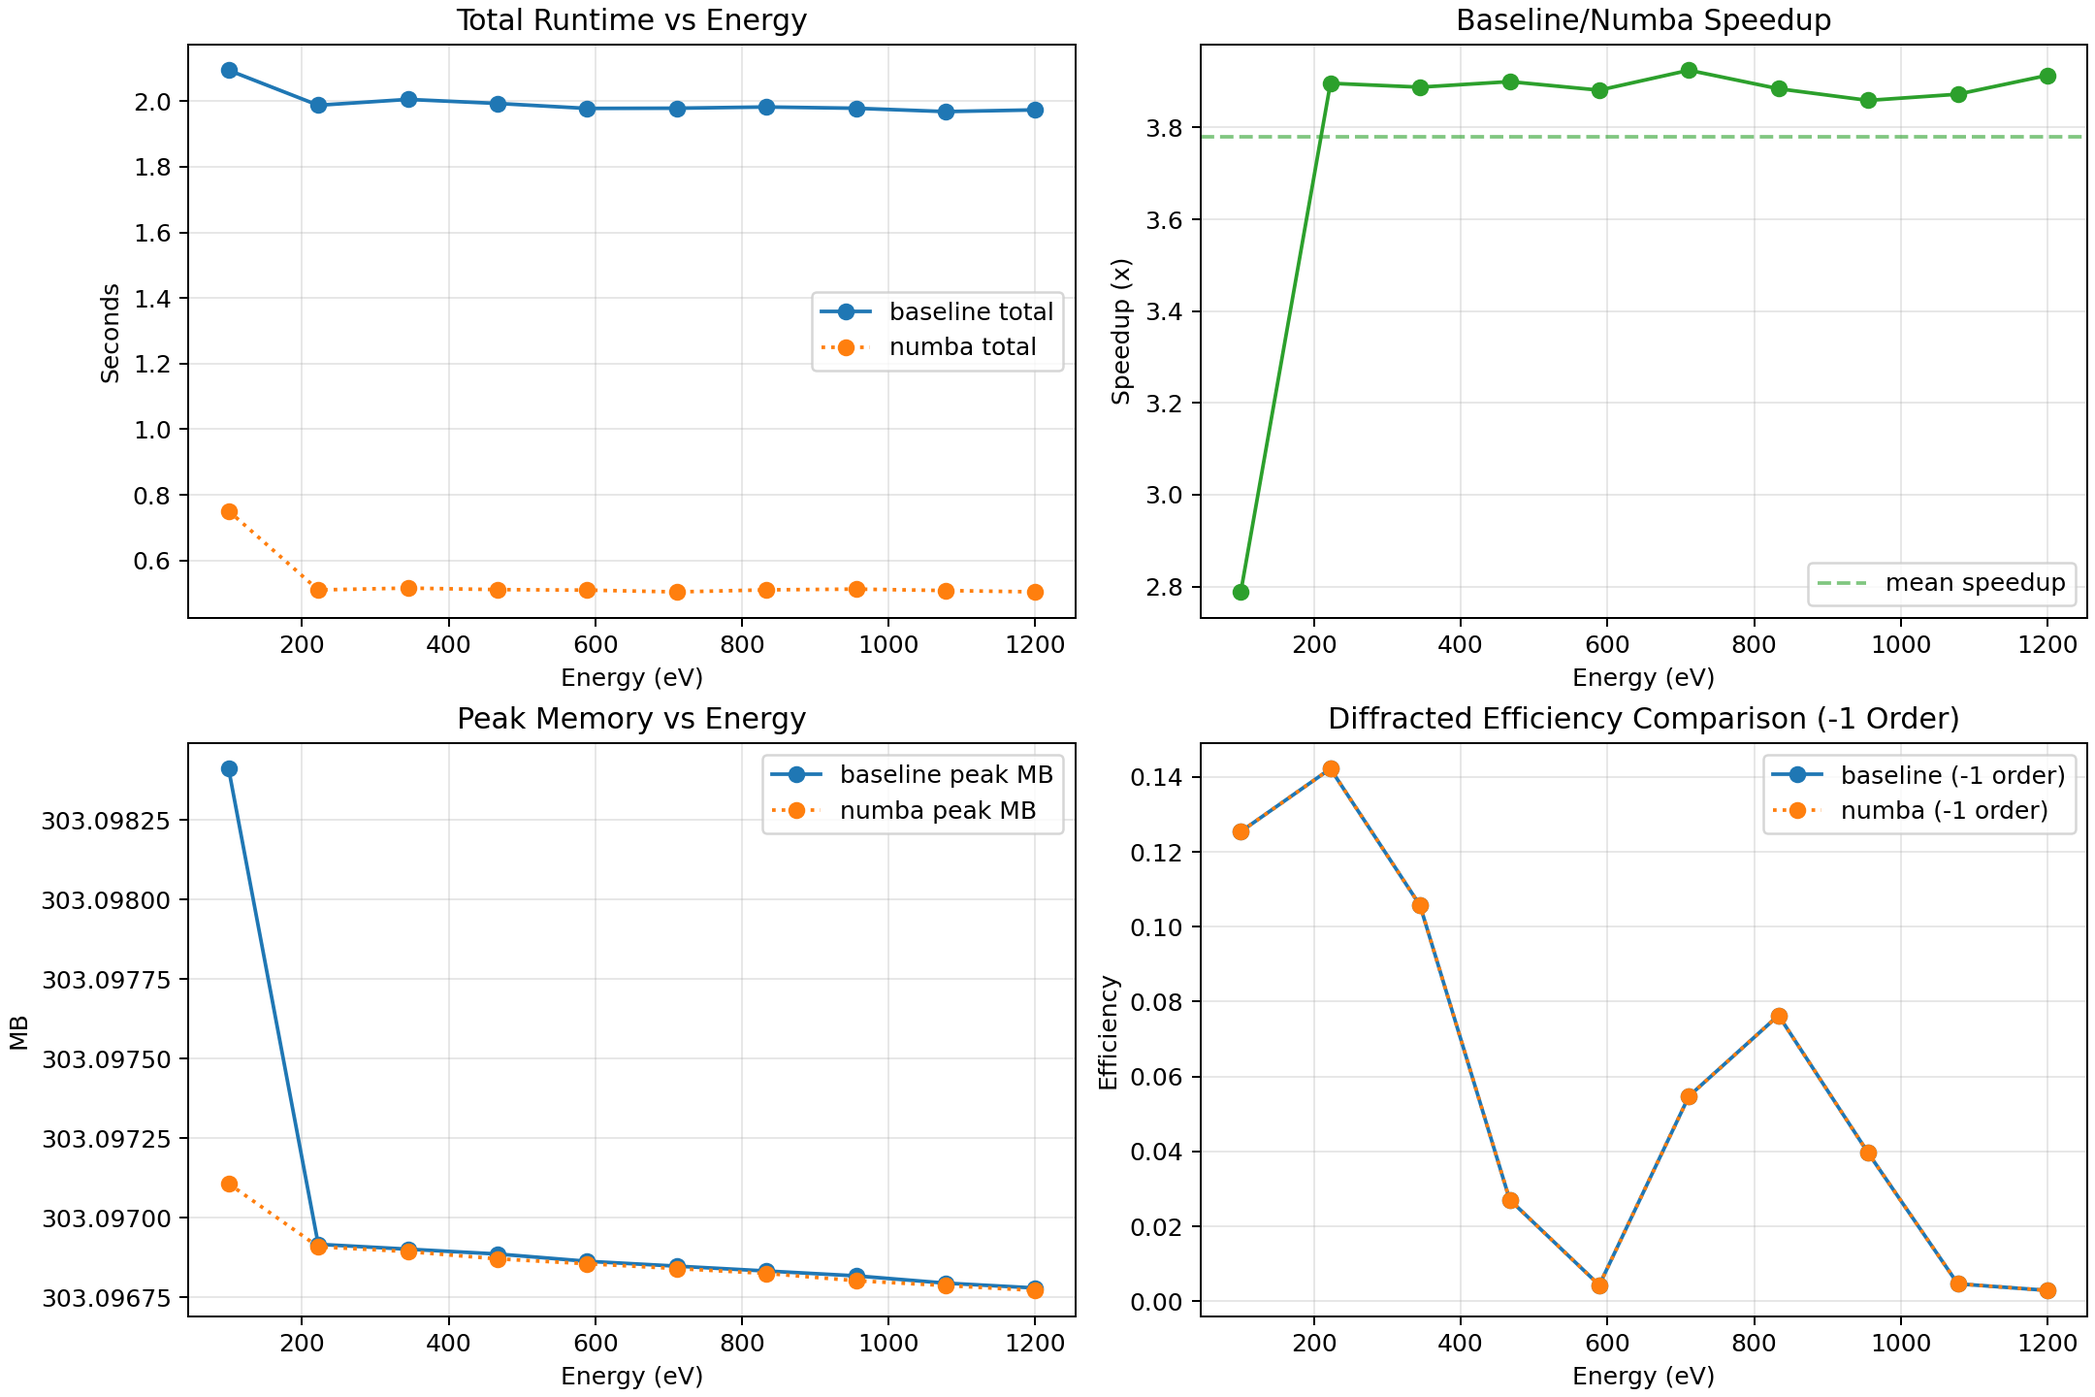
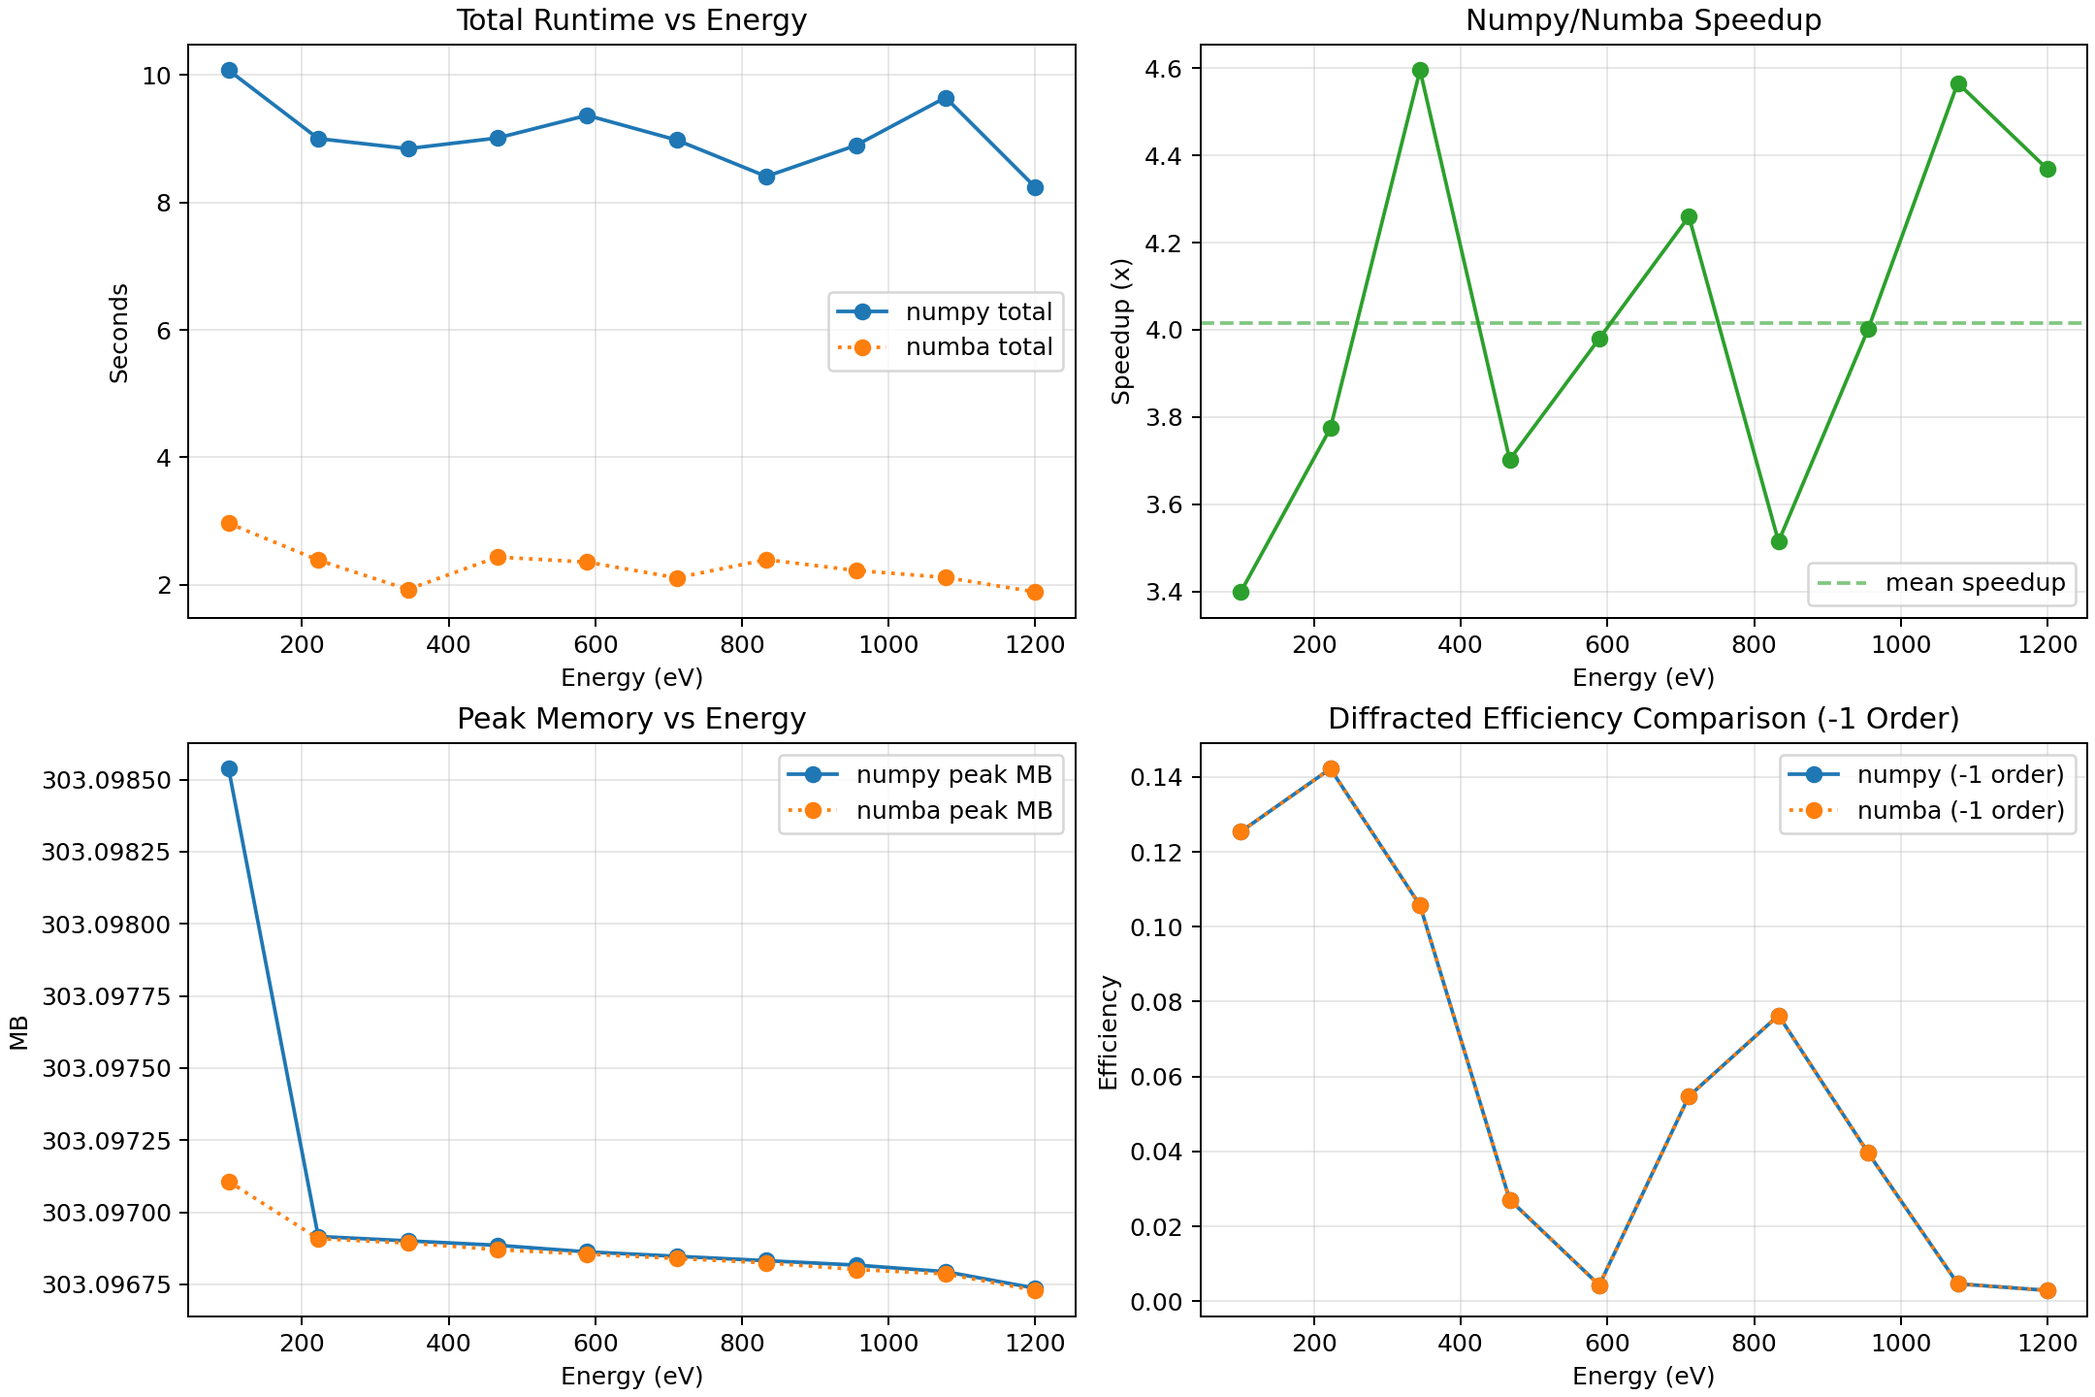
fixes ml and prifler part 1

diff --git a/tools/numba_speed/profile_multi_energy_numba_vs_legacy.py b/tools/numba_speed/profile_multi_energy_numba_vs_legacy.py
@@ -96,12 +96,12 @@ for energy_ev in tqdm(energies, desc="Multi-energy RCWA comparison", unit="energ
 
     numpy_total = float(summary_numpy["total_wall_seconds"])
     numba_total = float(summary_numba["total_wall_seconds"])
-    baseline_fourier = _fourier_stage_seconds(summary_baseline)
+    numpy_fourier = _fourier_stage_seconds(summary_numpy)
     numba_fourier = _fourier_stage_seconds(summary_numba)
-    baseline_peak_mb = float(summary_baseline["peak_memory_bytes"]) / (1024.0 * 1024.0)
+    numpy_peak_mb = float(summary_numpy["peak_memory_bytes"]) / (1024.0 * 1024.0)
     numba_peak_mb = float(summary_numba["peak_memory_bytes"]) / (1024.0 * 1024.0)
-    speedup = baseline_total / numba_total if numba_total > 0.0 else 0.0
-    baseline_eff_m1 = _efficiency_for_exact_order(baseline_result, order=-1)
+    speedup = numpy_total / numba_total if numba_total > 0.0 else 0.0
+    numpy_eff_m1 = _efficiency_for_exact_order(numpy_result, order=-1)
     numba_eff_m1 = _efficiency_for_exact_order(numba_result, order=-1)
 
     rows.append(
@@ -111,14 +111,14 @@ for energy_ev in tqdm(energies, desc="Multi-energy RCWA comparison", unit="energ
             "numba_actual_backend": str(summary_numba["metadata"].get("fourier_backend_actual", "numba")),
             "numpy_total_s": numpy_total,
             "numba_total_s": numba_total,
-            "numpy_fourier_s": _fourier_stage_seconds(summary_numpy),
+            "numpy_fourier_s": numpy_fourier,
             "numba_fourier_s": numba_fourier,
-            "numpy_peak_mb": float(summary_numpy["peak_memory_bytes"]) / (1024.0 * 1024.0),
+            "numpy_peak_mb": numpy_peak_mb,
             "numba_peak_mb": numba_peak_mb,
             "speedup_numpy_over_numba": speedup,
-            "numpy_eff_order_m1": _efficiency_for_exact_order(numpy_result, order=-1),
+            "numpy_eff_order_m1": numpy_eff_m1,
             "numba_eff_order_m1": numba_eff_m1,
-            "eff_delta_order_m1": float(numba_eff_m1 - _efficiency_for_exact_order(numpy_result, order=-1)),
+            "eff_delta_order_m1": float(numba_eff_m1 - numpy_eff_m1),
         }
     )
 
@@ -128,8 +128,8 @@ with csv_path.open("w", encoding="utf-8", newline="") as handle:
     writer.writeheader()
     writer.writerows(rows)
 
-mean_speedup = float(np.mean([float(row["speedup_baseline_over_numba"]) for row in rows]))
-mean_baseline_total = float(np.mean([float(row["baseline_total_s"]) for row in rows]))
+mean_speedup = float(np.mean([float(row["speedup_numpy_over_numba"]) for row in rows]))
+mean_numpy_total = float(np.mean([float(row["numpy_total_s"]) for row in rows]))
 mean_numba_total = float(np.mean([float(row["numba_total_s"]) for row in rows]))
 
 lines = [
@@ -144,8 +144,8 @@ lines = [
     f"z_resolution_nm={z_resolution_nm}",
     "",
     "aggregates",
-    f"- mean_numpy_total_s: {mean_numpy_total_s:.6f}",
-    f"- mean_numba_total_s: {mean_numba_total_s:.6f}",
+    f"- mean_numpy_total_s: {mean_numpy_total:.6f}",
+    f"- mean_numba_total_s: {mean_numba_total:.6f}",
     f"- mean_speedup_numpy_over_numba: {mean_speedup:.6f}",
     "",
     "per_energy",
@@ -155,20 +155,30 @@ lines = [
 for row in rows:
     lines.append(
         f"{row['energy_ev']:>8.3f}  "
-        f"{row['baseline_total_s']:>16.6f}  "
+        f"{row['numpy_total_s']:>16.6f}  "
         f"{row['numba_total_s']:>13.6f}  "
-        f"{row['baseline_fourier_s']:>18.6f}  "
+        f"{row['numpy_fourier_s']:>18.6f}  "
         f"{row['numba_fourier_s']:>15.6f}  "
-        f"{row['speedup_baseline_over_numba']:>7.4f}  "
+        f"{row['speedup_numpy_over_numba']:>7.4f}  "
         f"{row['eff_delta_order_m1']:+.3e}"
     )
+
+def _numba_fourier_available() -> bool:
+    """Return True if the numba backend is available."""
+    try:
+        import numba
+
+        return True
+    except ImportError:
+        return False
+
 
 if not _numba_fourier_available():
     lines.extend(
         [
             "",
             "note",
-            "- numba-optional fell back to baseline because Numba is not installed in this environment.",
+            "- numba-optional fell back to numpy because Numba is not installed in this environment.",
         ]
     )
 

diff --git a/tools/numba_speed/plot_multi_energy_numba_vs_legacy.py b/tools/numba_speed/plot_multi_energy_numba_vs_legacy.py
@@ -9,11 +9,11 @@ import matplotlib.pyplot as plt
 import numpy as np
 
 
-parser = argparse.ArgumentParser(description="Plot multi-energy numba vs legacy comparison")
+parser = argparse.ArgumentParser(description="Plot multi-energy numpy vs numba comparison")
 parser.add_argument(
     "--csv-path",
     type=Path,
-    default=Path(__file__).resolve().parent / "results" / "multi_energy_numba_vs_legacy.csv",
+    default=Path(__file__).resolve().parent / "results" / "multi_energy_numba_vs_numpy.csv",
 )
 parser.add_argument(
     "--output-dir",
@@ -32,18 +32,18 @@ args.output_dir.mkdir(parents=True, exist_ok=True)
 
 data = np.genfromtxt(args.csv_path, delimiter=",", names=True, dtype=None, encoding="utf-8")
 energy_ev = np.asarray(data["energy_ev"], dtype=float)
-baseline_total = np.asarray(data["baseline_total_s"], dtype=float)
+numpy_total = np.asarray(data["numpy_total_s"], dtype=float)
 numba_total = np.asarray(data["numba_total_s"], dtype=float)
-baseline_peak_mb = np.asarray(data["baseline_peak_mb"], dtype=float)
+numpy_peak_mb = np.asarray(data["numpy_peak_mb"], dtype=float)
 numba_peak_mb = np.asarray(data["numba_peak_mb"], dtype=float)
-speedup = np.asarray(data["speedup_baseline_over_numba"], dtype=float)
-baseline_eff_m1 = np.asarray(data["baseline_eff_order_m1"], dtype=float)
+speedup = np.asarray(data["speedup_numpy_over_numba"], dtype=float)
+numpy_eff_m1 = np.asarray(data["numpy_eff_order_m1"], dtype=float)
 numba_eff_m1 = np.asarray(data["numba_eff_order_m1"], dtype=float)
 
 fig, axes = plt.subplots(2, 2, figsize=(12, 8), constrained_layout=True)
 
 ax = axes[0, 0]
-ax.plot(energy_ev, baseline_total, marker="o", linestyle="-", label="baseline total")
+ax.plot(energy_ev, numpy_total, marker="o", linestyle="-", label="numpy total")
 ax.plot(energy_ev, numba_total, marker="o", linestyle=":", label="numba total")
 ax.set_title("Total Runtime vs Energy")
 ax.set_xlabel("Energy (eV)")
@@ -54,14 +54,14 @@ ax.legend()
 ax = axes[0, 1]
 ax.plot(energy_ev, speedup, marker="o", color="tab:green")
 ax.axhline(float(np.mean(speedup)), color="tab:green", linestyle="--", alpha=0.6, label="mean speedup")
-ax.set_title("Baseline/Numba Speedup")
+ax.set_title("Numpy/Numba Speedup")
 ax.set_xlabel("Energy (eV)")
 ax.set_ylabel("Speedup (x)")
 ax.grid(True, alpha=0.3)
 ax.legend()
 
 ax = axes[1, 0]
-ax.plot(energy_ev, baseline_peak_mb, marker="o", linestyle="-", label="baseline peak MB")
+ax.plot(energy_ev, numpy_peak_mb, marker="o", linestyle="-", label="numpy peak MB")
 ax.plot(energy_ev, numba_peak_mb, marker="o", linestyle=":", label="numba peak MB")
 ax.set_title("Peak Memory vs Energy")
 ax.set_xlabel("Energy (eV)")
@@ -70,7 +70,7 @@ ax.grid(True, alpha=0.3)
 ax.legend()
 
 ax = axes[1, 1]
-ax.plot(energy_ev, baseline_eff_m1, marker="o", linestyle="-", label="baseline (-1 order)")
+ax.plot(energy_ev, numpy_eff_m1, marker="o", linestyle="-", label="numpy (-1 order)")
 ax.plot(energy_ev, numba_eff_m1, marker="o", linestyle=":", label="numba (-1 order)")
 ax.set_title("Diffracted Efficiency Comparison (-1 Order)")
 ax.set_xlabel("Energy (eV)")

diff --git a/src/grax/simulation/theta_search.py b/src/grax/simulation/theta_search.py
@@ -141,6 +141,7 @@ def _run_theta_scan(
     max_reflected_efficiency: float,
     min_efficiency: float,
     max_total_reflected_efficiency: float,
+    backend: str,
 ) -> tuple[np.ndarray, list[SingleSimulationResult]]:
     """Run one theta scan and return selected efficiencies plus full results."""
 
@@ -156,6 +157,7 @@ def _run_theta_scan(
             max_reflected_efficiency=max_reflected_efficiency,
             min_efficiency=min_efficiency,
             max_total_reflected_efficiency=max_total_reflected_efficiency,
+            backend=backend,
         )
         for theta_deg in theta_grid_deg
     ]
@@ -293,6 +295,7 @@ def run_multilayer_theta_search(
     min_efficiency: float = -1e-8,
     max_total_reflected_efficiency: float = 1.05,
     precise_peak_selection_mode: PeakSelectionMode = "max",
+    backend: str = "numba",
     diagnostic_callback: Callable[[ThetaSearchDiagnostics, float], None] | None = None,
 ) -> SingleSimulationResult:
     """Run one energy point with an internal rough/precise grazing-angle search.
@@ -324,6 +327,8 @@ def run_multilayer_theta_search(
         precise_peak_selection_mode: Mode used to select the final theta from the
             precise scan. ``max`` uses the sampled maximum, ``gauss`` fits a local
             Gaussian neighborhood, and ``voigt`` fits a local Voigt neighborhood.
+        backend: Fourier coefficient backend selector. Options: ``numpy`` (pure Python,
+            default), ``numba`` (JIT-compiled, requires numba package).
         diagnostic_callback: Optional callback invoked with scan diagnostics after the peak search.
 
     Returns:
@@ -390,6 +395,7 @@ def run_multilayer_theta_search(
             max_reflected_efficiency=max_reflected_efficiency,
             min_efficiency=min_efficiency,
             max_total_reflected_efficiency=max_total_reflected_efficiency,
+            backend=backend,
         )
         rough_peak_index = int(np.nanargmax(rough_efficiencies))
         rough_peak_angle_deg = float(rough_grazing_angles_deg[rough_peak_index])
@@ -444,6 +450,7 @@ def run_multilayer_theta_search(
             max_reflected_efficiency=max_reflected_efficiency,
             min_efficiency=min_efficiency,
             max_total_reflected_efficiency=max_total_reflected_efficiency,
+            backend=backend,
         )
         precise_peak_index = int(np.nanargmax(precise_efficiencies))
         precise_ok, precise_status = _peak_capture_status(precise_efficiencies, precise_peak_index, edge_margin=2)
@@ -491,6 +498,7 @@ def run_multilayer_theta_search(
         max_reflected_efficiency=max_reflected_efficiency,
         min_efficiency=min_efficiency,
         max_total_reflected_efficiency=max_total_reflected_efficiency,
+        backend=backend,
     )
     logger.info(
         "[theta-search][final-scan] done energy=%.6f eV selected_theta=%.6f selected_eff=%.6e",

diff --git a/tools/numba_speed/plot_multi_energy_multilayer_numba_vs_legacy.py b/tools/numba_speed/plot_multi_energy_multilayer_numba_vs_legacy.py
@@ -9,7 +9,7 @@ import numpy as np
 
 
 RESULTS_DIR = Path(__file__).resolve().parent / "results"
-CSV_PATH = RESULTS_DIR / "multi_energy_multilayer_numba_vs_legacy.csv"
+CSV_PATH = RESULTS_DIR / "multi_energy_multilayer_numba_vs_numpy.csv"
 PLOT_PATH = RESULTS_DIR / "multi_energy_multilayer_numba_vs_legacy_plots.png"
 
 if not CSV_PATH.exists():
@@ -20,18 +20,18 @@ if not CSV_PATH.exists():
 
 data = np.genfromtxt(CSV_PATH, delimiter=",", names=True, dtype=None, encoding="utf-8")
 energy_ev = np.asarray(data["energy_ev"], dtype=float)
-baseline_total = np.asarray(data["baseline_total_s"], dtype=float)
+numpy_total = np.asarray(data["numpy_total_s"], dtype=float)
 numba_total = np.asarray(data["numba_total_s"], dtype=float)
-baseline_peak_mb = np.asarray(data["baseline_peak_mb"], dtype=float)
+numpy_peak_mb = np.asarray(data["numpy_peak_mb"], dtype=float)
 numba_peak_mb = np.asarray(data["numba_peak_mb"], dtype=float)
-speedup = np.asarray(data["speedup_baseline_over_numba"], dtype=float)
-baseline_eff_m1 = np.asarray(data["baseline_eff_order_m1"], dtype=float)
+speedup = np.asarray(data["speedup_numpy_over_numba"], dtype=float)
+numpy_eff_m1 = np.asarray(data["numpy_eff_order_m1"], dtype=float)
 numba_eff_m1 = np.asarray(data["numba_eff_order_m1"], dtype=float)
 
 fig, axes = plt.subplots(2, 2, figsize=(12, 8), constrained_layout=True)
 
 ax = axes[0, 0]
-ax.plot(energy_ev, baseline_total, marker="o", linestyle="-", label="baseline total")
+ax.plot(energy_ev, numpy_total, marker="o", linestyle="-", label="numpy total")
 ax.plot(energy_ev, numba_total, marker="o", linestyle=":", label="numba total")
 ax.set_title("Total Runtime vs Energy")
 ax.set_xlabel("Energy (eV)")
@@ -42,14 +42,14 @@ ax.legend()
 ax = axes[0, 1]
 ax.plot(energy_ev, speedup, marker="o", color="tab:green")
 ax.axhline(float(np.mean(speedup)), color="tab:green", linestyle="--", alpha=0.6, label="mean speedup")
-ax.set_title("Baseline/Numba Speedup")
+ax.set_title("Numpy/Numba Speedup")
 ax.set_xlabel("Energy (eV)")
 ax.set_ylabel("Speedup (x)")
 ax.grid(True, alpha=0.3)
 ax.legend()
 
 ax = axes[1, 0]
-ax.plot(energy_ev, baseline_peak_mb, marker="o", linestyle="-", label="baseline peak MB")
+ax.plot(energy_ev, numpy_peak_mb, marker="o", linestyle="-", label="numpy peak MB")
 ax.plot(energy_ev, numba_peak_mb, marker="o", linestyle=":", label="numba peak MB")
 ax.set_title("Peak Memory vs Energy")
 ax.set_xlabel("Energy (eV)")
@@ -58,7 +58,7 @@ ax.grid(True, alpha=0.3)
 ax.legend()
 
 ax = axes[1, 1]
-ax.plot(energy_ev, baseline_eff_m1, marker="o", linestyle="-", label="baseline (-1 order)")
+ax.plot(energy_ev, numpy_eff_m1, marker="o", linestyle="-", label="numpy (-1 order)")
 ax.plot(energy_ev, numba_eff_m1, marker="o", linestyle=":", label="numba (-1 order)")
 ax.set_title("Diffracted Efficiency Comparison (-1 Order)")
 ax.set_xlabel("Energy (eV)")

diff --git a/tools/numba_speed/profile_multi_energy_multilayer_numba_vs_legacy.py b/tools/numba_speed/profile_multi_energy_multilayer_numba_vs_legacy.py
@@ -174,8 +174,8 @@ with csv_path.open("w", encoding="utf-8", newline="") as handle:
     writer.writeheader()
     writer.writerows(rows)
 
-mean_speedup = float(np.mean([float(row["speedup_baseline_over_numba"]) for row in rows]))
-mean_baseline_total = float(np.mean([float(row["baseline_total_s"]) for row in rows]))
+mean_speedup = float(np.mean([float(row["speedup_numpy_over_numba"]) for row in rows]))
+mean_numpy_total = float(np.mean([float(row["numpy_total_s"]) for row in rows]))
 mean_numba_total = float(np.mean([float(row["numba_total_s"]) for row in rows]))
 
 lines = [
@@ -190,8 +190,8 @@ lines = [
     f"efficiency_order={DIFFRACTION_ORDER}",
     "",
     "aggregates",
-    f"- mean_numpy_total_s: {mean_numpy_total_s:.6f}",
-    f"- mean_numba_total_s: {mean_numba_total_s:.6f}",
+    f"- mean_numpy_total_s: {mean_numpy_total:.6f}",
+    f"- mean_numba_total_s: {mean_numba_total:.6f}",
     f"- mean_speedup_numpy_over_numba: {mean_speedup:.6f}",
     "",
     "per_energy",
@@ -202,20 +202,30 @@ for row in rows:
     lines.append(
         f"{row['energy_ev']:>8.1f}  "
         f"{row['grazing_angle_deg']:>17.6f}  "
-        f"{row['baseline_total_s']:>16.6f}  "
+        f"{row['numpy_total_s']:>16.6f}  "
         f"{row['numba_total_s']:>13.6f}  "
-        f"{row['baseline_fourier_s']:>18.6f}  "
+        f"{row['numpy_fourier_s']:>18.6f}  "
         f"{row['numba_fourier_s']:>15.6f}  "
-        f"{row['speedup_baseline_over_numba']:>7.4f}  "
+        f"{row['speedup_numpy_over_numba']:>7.4f}  "
         f"{row['eff_delta_order_m1']:+.3e}"
     )
+
+def _numba_fourier_available() -> bool:
+    """Return True if the numba backend is available."""
+    try:
+        import numba
+
+        return True
+    except ImportError:
+        return False
+
 
 if not _numba_fourier_available():
     lines.extend(
         [
             "",
             "note",
-            "- numba-optional fell back to baseline because Numba is not installed in this environment.",
+            "- numba-optional fell back to numpy because Numba is not installed in this environment.",
         ]
     )
 

diff --git a/src/grax/simulation/theta_search_sweep.py b/src/grax/simulation/theta_search_sweep.py
@@ -393,6 +393,7 @@ def run_multilayer_theta_search_sweep(
         "max_reflected_efficiency": 1.05,
         "min_efficiency": -1e-8,
         "max_total_reflected_efficiency": 1.05,
+        "backend": "numba",
     }
     retry_jitter_values = (theta_retry_jitter_deg or (0.002, -0.002, 0.005))[: max(0, int(max_zero_efficiency_retries))]
     theta_continuity_tolerance_deg = 0.02

diff --git a/examples/simulation/multilayer_theta_search/multilayer_theta_search.py b/examples/simulation/multilayer_theta_search/multilayer_theta_search.py
@@ -84,6 +84,7 @@ sweep = rp.run_multilayer_theta_search_sweep(
     show_progress=True,
     live_plot=True,
     max_workers='auto',
+    backend='numba',
     on_error="fail_fast",
     checkpoint_dir=output_dir / "checkpoints",
     resume=False,
